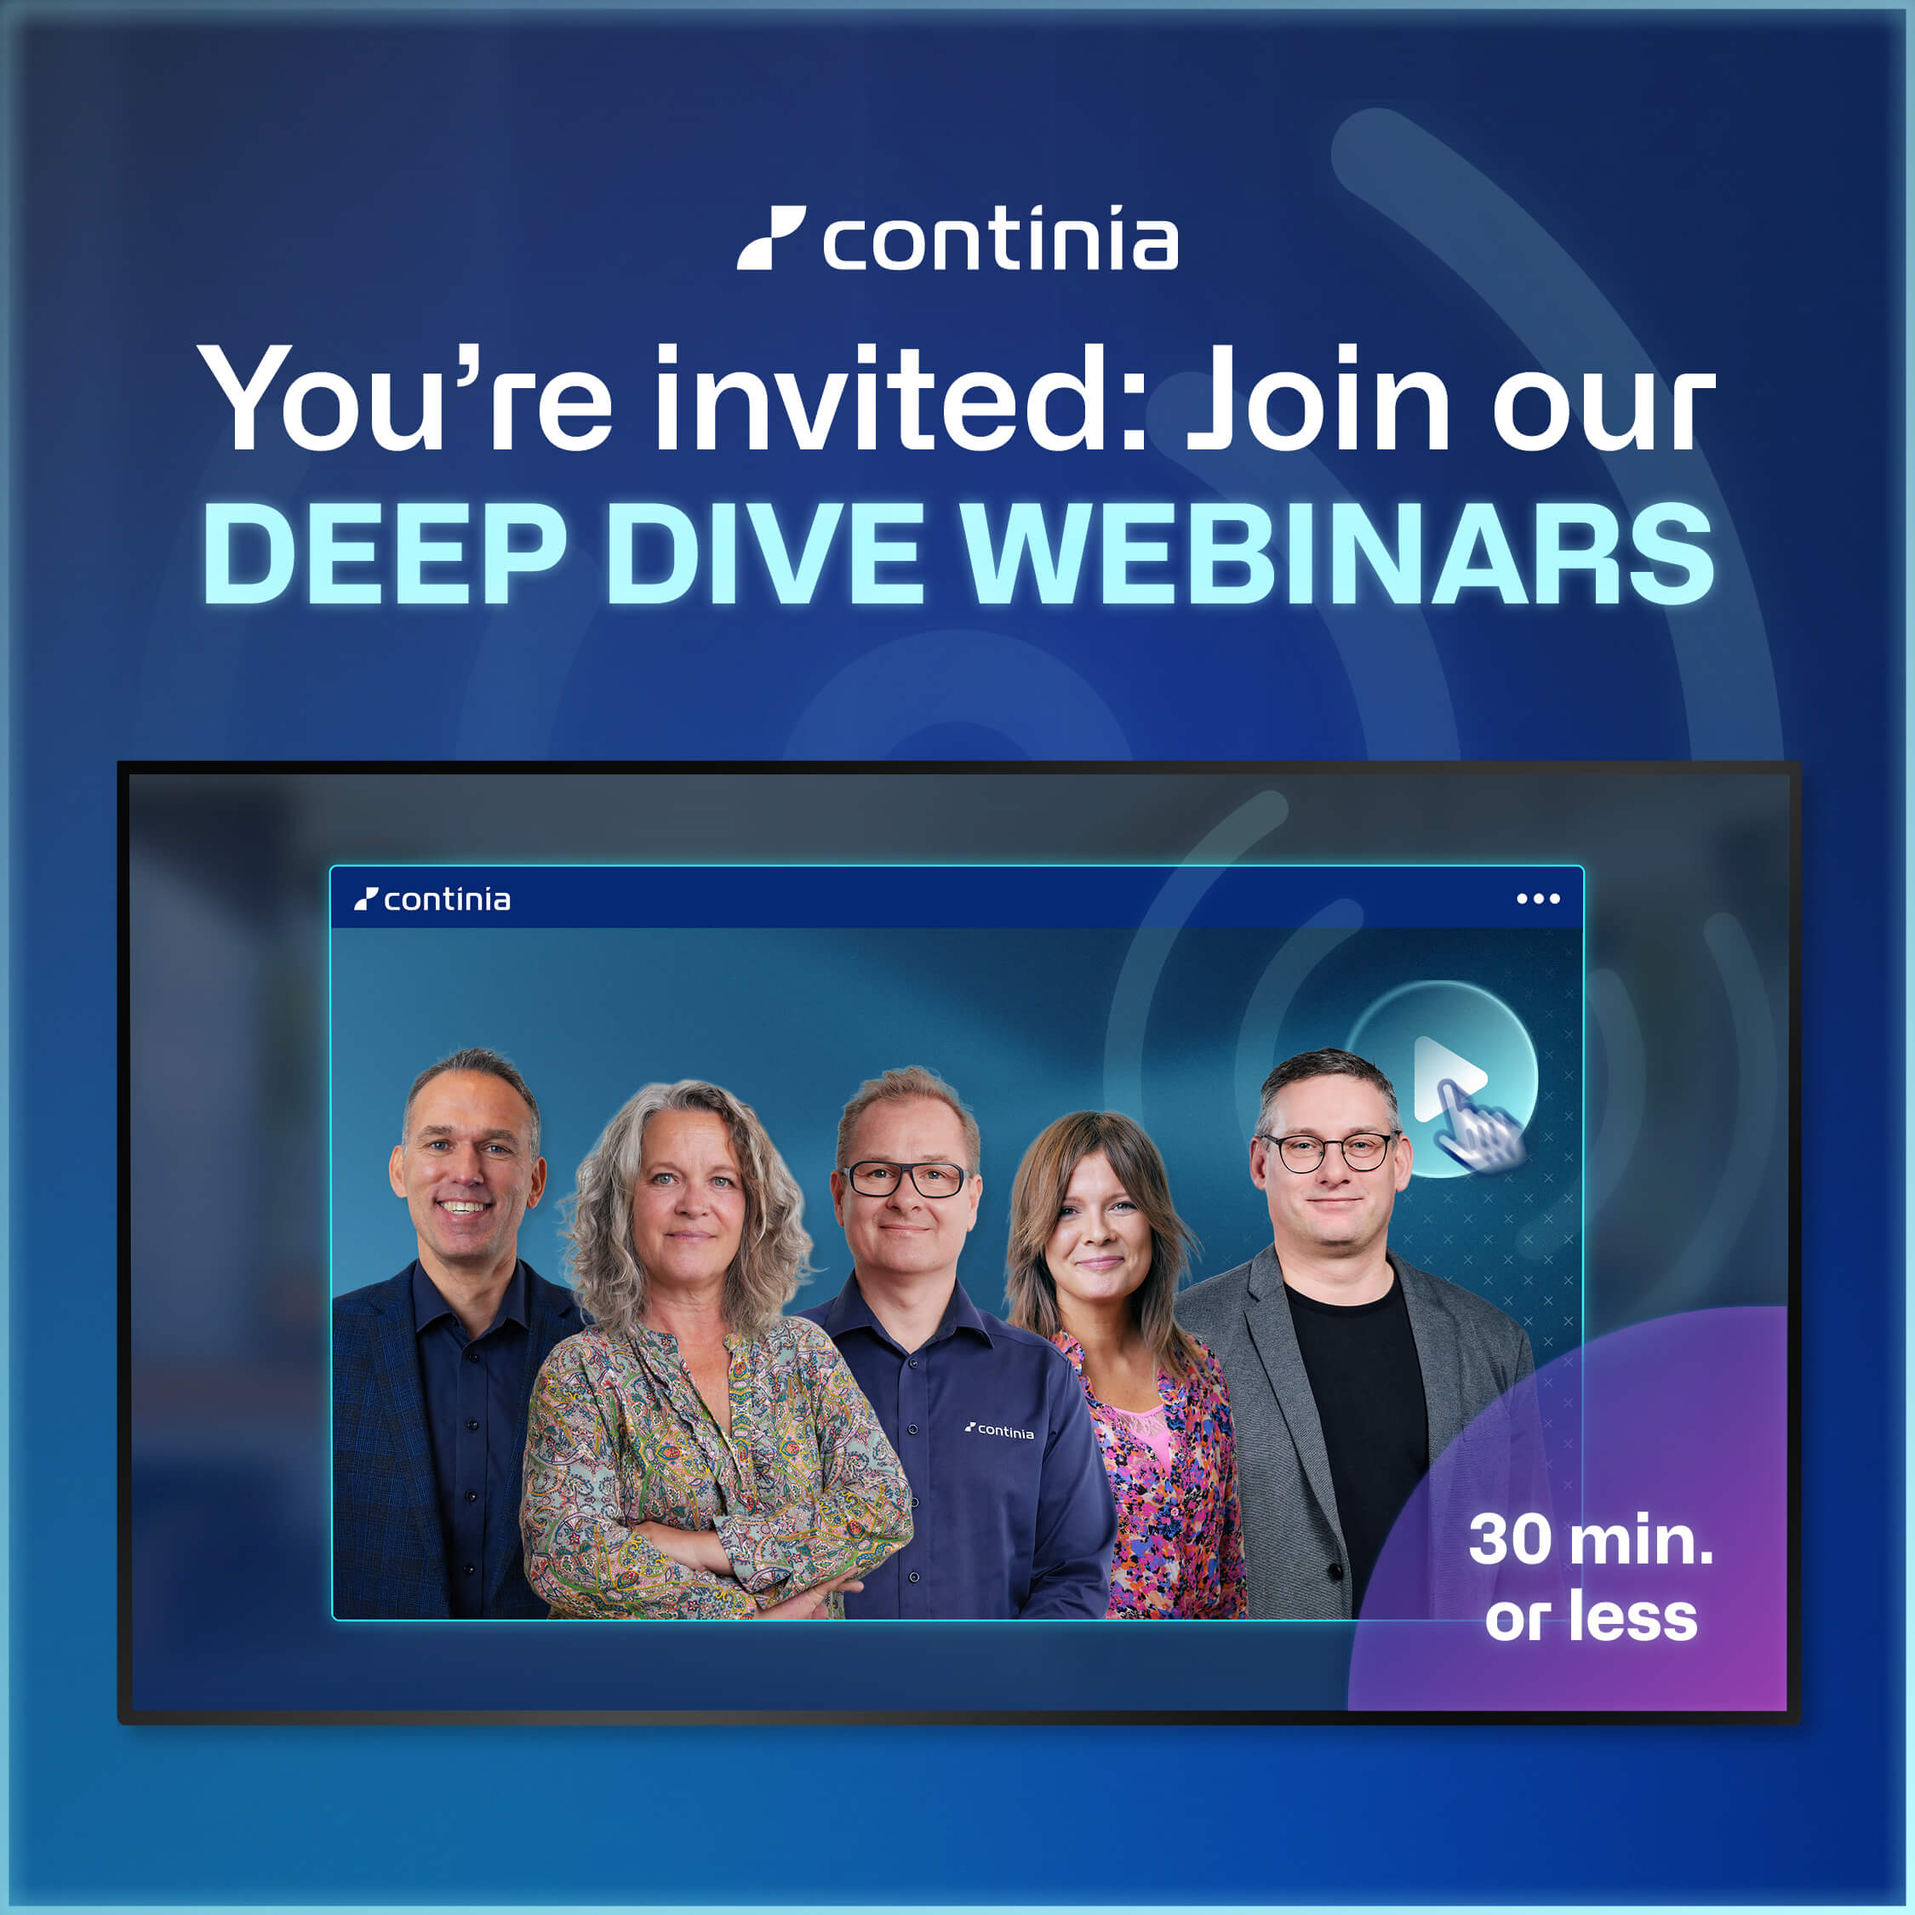
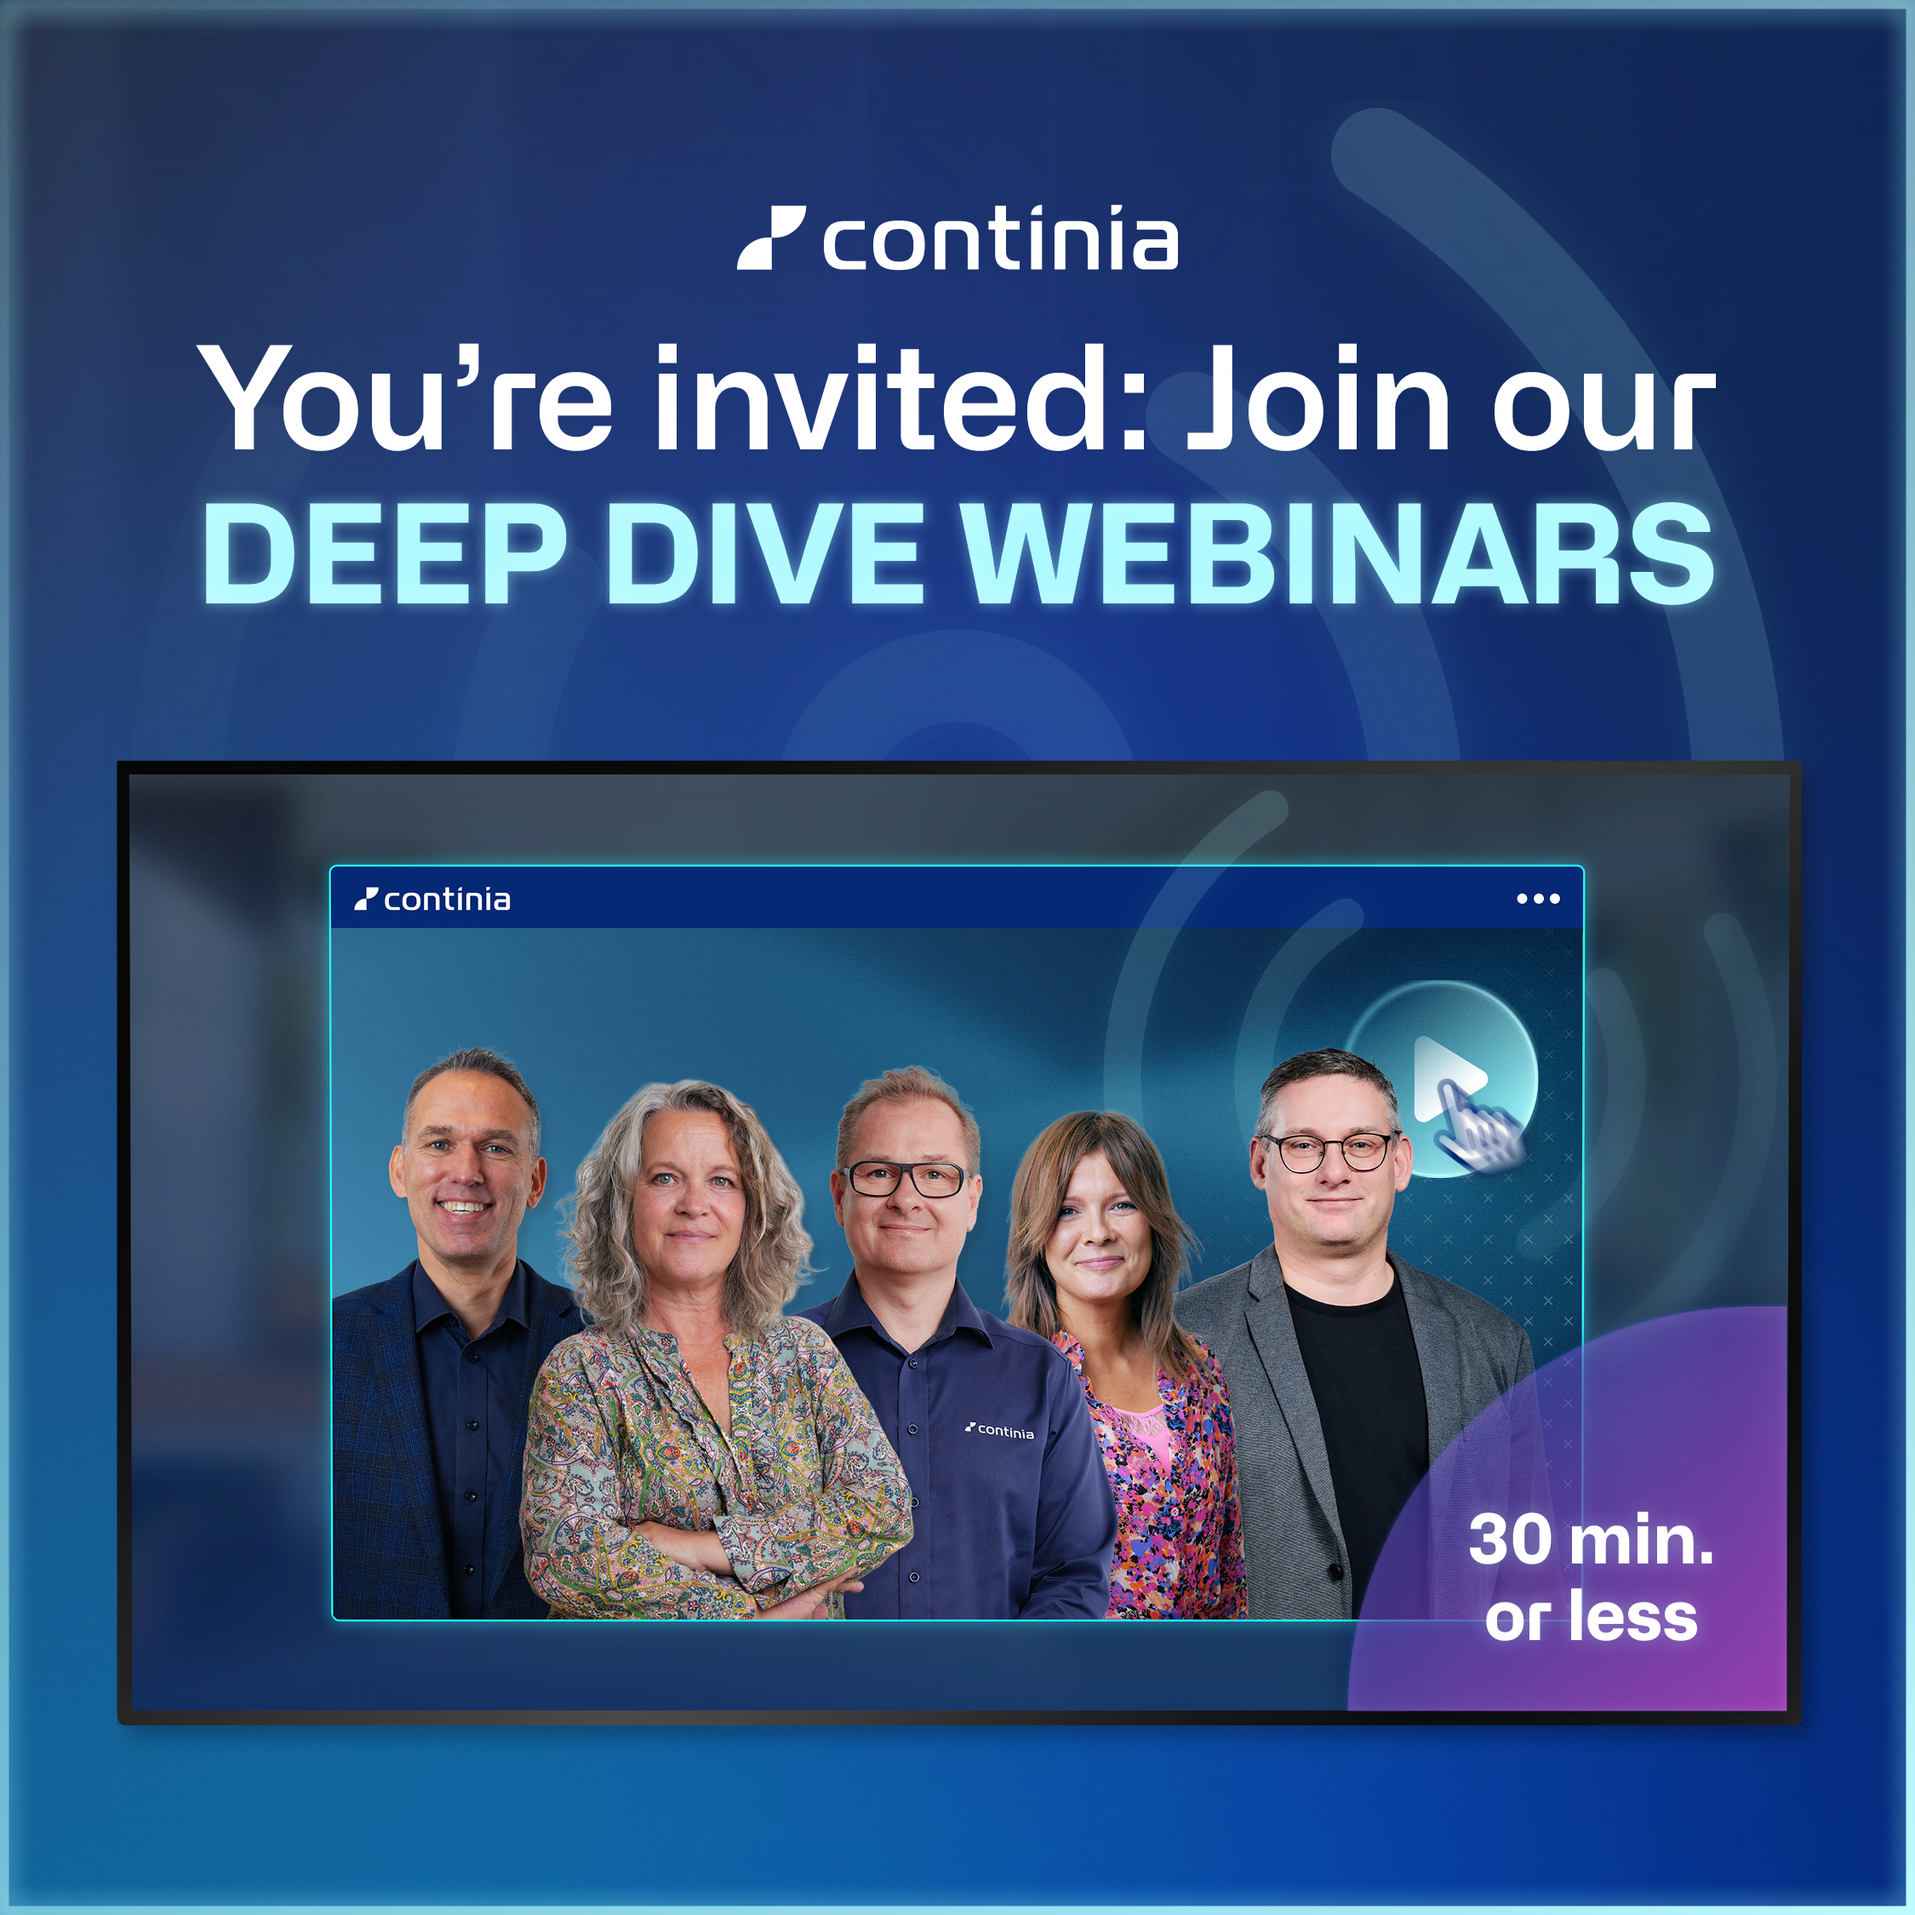
Login: authorize pech@continia.com
Fourteenth address on ALLOWED_EMAILS. The shared password is unchanged and
still required - the email list alone lets nobody in.

Changed region(s): [[0.28, 0.6844, 0.4978, 0.84], [0.56, 0.7156, 0.6533, 0.84]]

diff --git a/login.html b/login.html
@@ -128,7 +128,8 @@ function continiaNext(){
     "mask@continia.com",
     "jeju@continia.com",
     "anth@continia.com",
-    "nsje@continia.com"
+    "nsje@continia.com",
+    "pech@continia.com"
   ];
   var em=document.getElementById("email"),pw=document.getElementById("password"),
       eye=document.getElementById("eye"),err=document.getElementById("err"),
